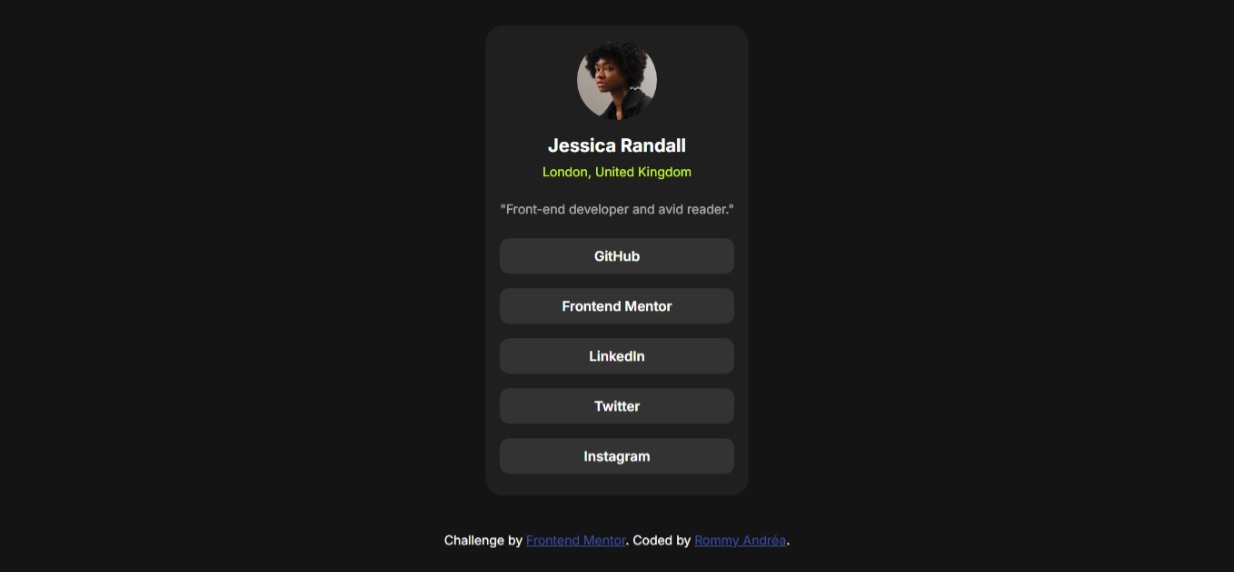
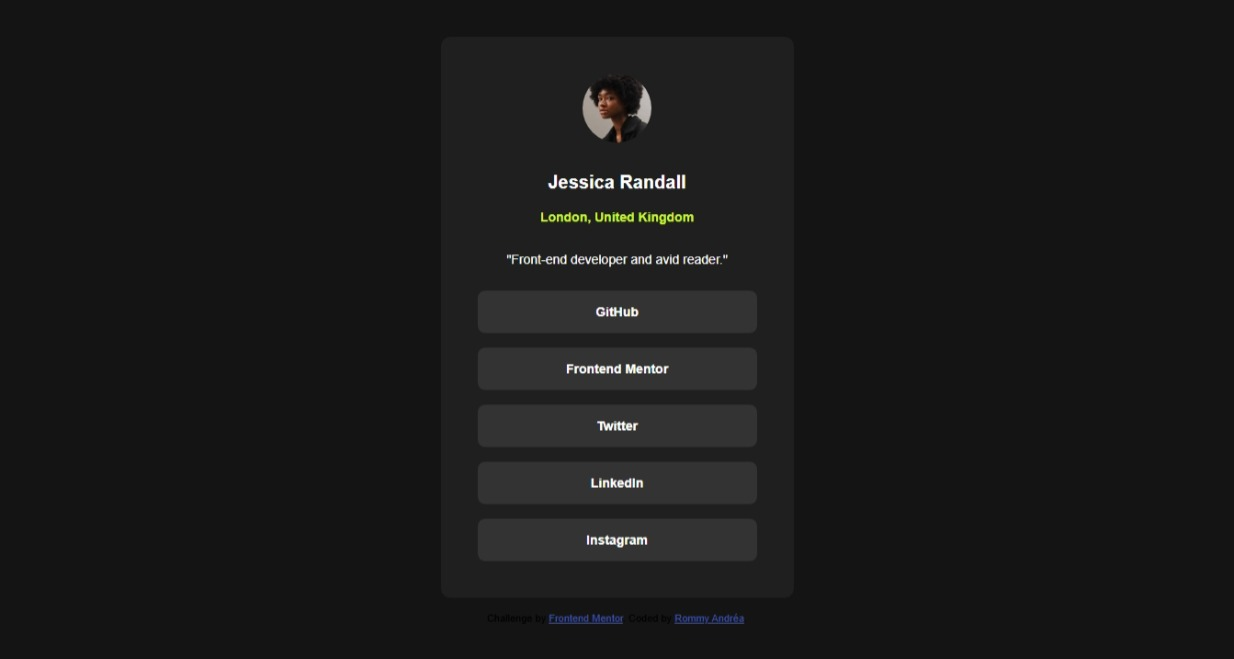
Modification html, css, readme, screenshot

diff --git a/styles.css b/styles.css
@@ -1,7 +1,7 @@
 * {
+    box-sizing: border-box;
     margin: 0;
     padding: 0;
-    box-sizing: border-box;
 }
 
 body {
@@ -10,94 +10,104 @@ body {
     display: flex;
     justify-content: center;
     align-items: center;
-    min-height: 100vh;
     flex-direction: column;
-    gap: 2rem;
+    min-height: 100vh;
+    padding: 2.5rem 0.9375rem;
 }
 
 .container {
     background-color: hsl(0, 0%, 12%);
-    padding: 1rem;
     display: flex;
     justify-content: center;
     align-items: center;
     flex-direction: column;
-    border-radius: 0.5rem;
-    max-width: 320px;
+    text-align: center;
+    max-width: 327px;
     width: 100%;
-    gap: 1rem;
-    padding-left: 2.5rem;
-    padding-right:  2.5rem;
-    padding-bottom: 2rem;
-    padding-top: 2rem;
+    height: auto;
+    padding: 2.5rem;
+    border-radius: 0.625rem;
 }
 
-.container img{
-    width: 88px;
+.container img {
+    width: 75px;
     height: auto;
     border-radius: 50%;
 }
 
-.text {
-    display: flex;
-    justify-content: center;
-    align-items: center;
-    flex-direction: column;
-}
-
-.text h1 {
-    color: hsl(0, 0%, 100%);
-    font-weight: 700;
+.name {
     font-size: 1.25rem;
-}
-
-.text p {
-    font-size: 0.875rem;
-    font-weight: 400;
-}
-
-.address{
-    color: hsl(75, 94%, 57%);
-    margin-top: 0.5rem;
+    font-weight: 600;
+    color: hsl(0, 0%, 100%);
+    margin-top: 2rem;
     margin-bottom: 0.5rem;
 }
 
-.description {
-    color: hsla(0, 0%, 100%, 0.65);
-    margin-top: 1rem;
-    margin-bottom: 1rem;
-    text-wrap: nowrap;
-    padding-left: 0.625rem;
-    padding-right: 0.625rem;
+.location, 
+.bio {
+    font-size: 0.875rem;
 }
 
-.button {
+.location {
+    font-weight: 600;
+    color: hsl(75, 94%, 57%);
+    margin-top: 0.625rem;
+    margin-bottom: 1rem;
+}
+
+.bio {
+    font-weight: 400;
+    color: hsl(0, 0%, 100%);
+    margin-top: 0.875rem;
+    margin-bottom: 1.625rem;
+}
+
+.social-links {
+    list-style: none;
+    width: 100%;
+    display: flex;
+    flex-direction: column;
+    gap: 1rem;
+}
+
+.social-links a {
+    display: block;
     text-decoration: none;
+    font-size: 0.875rem;
+    font-weight: 700;
     color: hsl(0, 0%, 100%);
     background-color: hsl(0, 0%, 20%);
-    font-weight: 600;
-    text-align: center;
-    padding: 0.625rem;
-    margin: 0.25rem;
-    width: 100%;
-    font-size: 0.9375rem;
+    padding: 0.9375rem;
     border-radius: 0.5rem;
+    transition: background-color 0.3s ease, color 0.3s ease;
 }
 
-
-.button:hover,  
-.button:focus-visible {
+.social-links a:hover,
+.social-links a:focus-visible {
     background-color: hsl(75, 94%, 57%);
-    color: hsl(0, 0%, 4%);
-    outline: none;
+    color: hsl(0, 0%, 20%);
 }
 
-.attribution {
-    color: hsl(0, 0%, 100%);
-    font-size: 0.875rem; 
-    text-align: center;
+.attribution { 
+    font-size: 0.6875rem; 
+    text-align: center; 
+    white-space: nowrap;
+    margin-top: 1rem;
+}
+    
+.attribution a { 
+    color: hsl(228, 45%, 44%); 
 }
 
-.attribution a {
-    color: hsl(228, 45%, 44%);
+@media (min-width: 750px) {
+    .container {
+        max-width: 384px;
+        width: 100%;
+    }
+}
+
+@media (max-width: 320px) {
+    .container {
+        padding: 1.5rem;
+    }
 }

diff --git a/index.html b/index.html
@@ -1,39 +1,37 @@
 <!DOCTYPE html>
 <html lang="en">
 <head>
-    <!--meta-->
     <meta charset="UTF-8">
     <meta name="viewport" content="width=device-width, initial-scale=1.0">
 
-    <!--title-->
     <title>Frontend Mentor | Social links profile</title>
 
-    <!--link-->
     <link rel="stylesheet" href="styles.css">
-    <link rel="icon" href="images/favicon-32x32.png" sizes="32x32" type="image/png">
-    <link href="https://fonts.googleapis.com/css2?family=Inter:wght@400;600;700&display=swap" rel="stylesheet">
+    <link rel="icon" href="images/favicon-32x32.png">
+    <link rel="preconnect" href="https://fonts.googleapis.com">
+    <link rel="preconnect" href="https://fonts.gstatic.com" crossorigin>
+    <link href="https://fonts.googleapis.com/css2?family=Inter:ital,opsz,wght@400,600,700&display=swap" rel="stylesheet">
 </head>
 <body>
-    <main>
-        <div class="container">
-            <img src="images/avatar-jessica.jpeg" alt="Profile avatar-jessica">
+    <main class="container">
+        <img src="images/avatar-jessica.jpeg" alt="Picture of Jessica Randall" class="avatar">
 
-            <div class="text">
-                <h1>Jessica Randall</h1>
-                <p class="address">London, United Kingdom</p>
-                <p class="description">"Front-end developer and avid reader."</p>
-                <a href="#" class="button">GitHub</a>
-                <a href="#" class="button">Frontend Mentor</a>
-                <a href="#" class="button">LinkedIn</a>
-                <a href="#" class="button">Twitter</a>
-                <a href="#" class="button">Instagram</a>
-            </div>
-        </div>
+        <h1 class="name">Jessica Randall</h1>
+        <p class="location">London, United Kingdom</p>
+        <p class="bio">"Front-end developer and avid reader."</p>
+
+        <ul class="social-links">
+            <li><a href="https://github.com/" target="_blank">GitHub</a></li>
+            <li><a href="https://www.frontendmentor.io/" target="_blank">Frontend Mentor</a></li>
+            <li><a href="https://twitter.com/" target="_blank">Twitter</a></li>
+            <li><a href="https://www.linkedin.com/" target="_blank">LinkedIn</a></li>
+            <li><a href="https://www.instagram.com/" target="_blank">Instagram</a></li>
+        </ul>
     </main>
 
     <div class="attribution">
-    Challenge by <a href="https://www.frontendmentor.io?ref=challenge" target="_blank">Frontend Mentor</a>. 
-    Coded by <a href="https://github.com/RommyAndrea">Rommy Andréa</a>.
-  </div>
+        Challenge by <a href="https://www.frontendmentor.io?ref=challenge" target="_blank">Frontend Mentor</a>. 
+        Coded by <a href="https://github.com/RommyAndrea" target="_blank">Rommy Andréa</a>.
+    </div>
 </body>
 </html>
